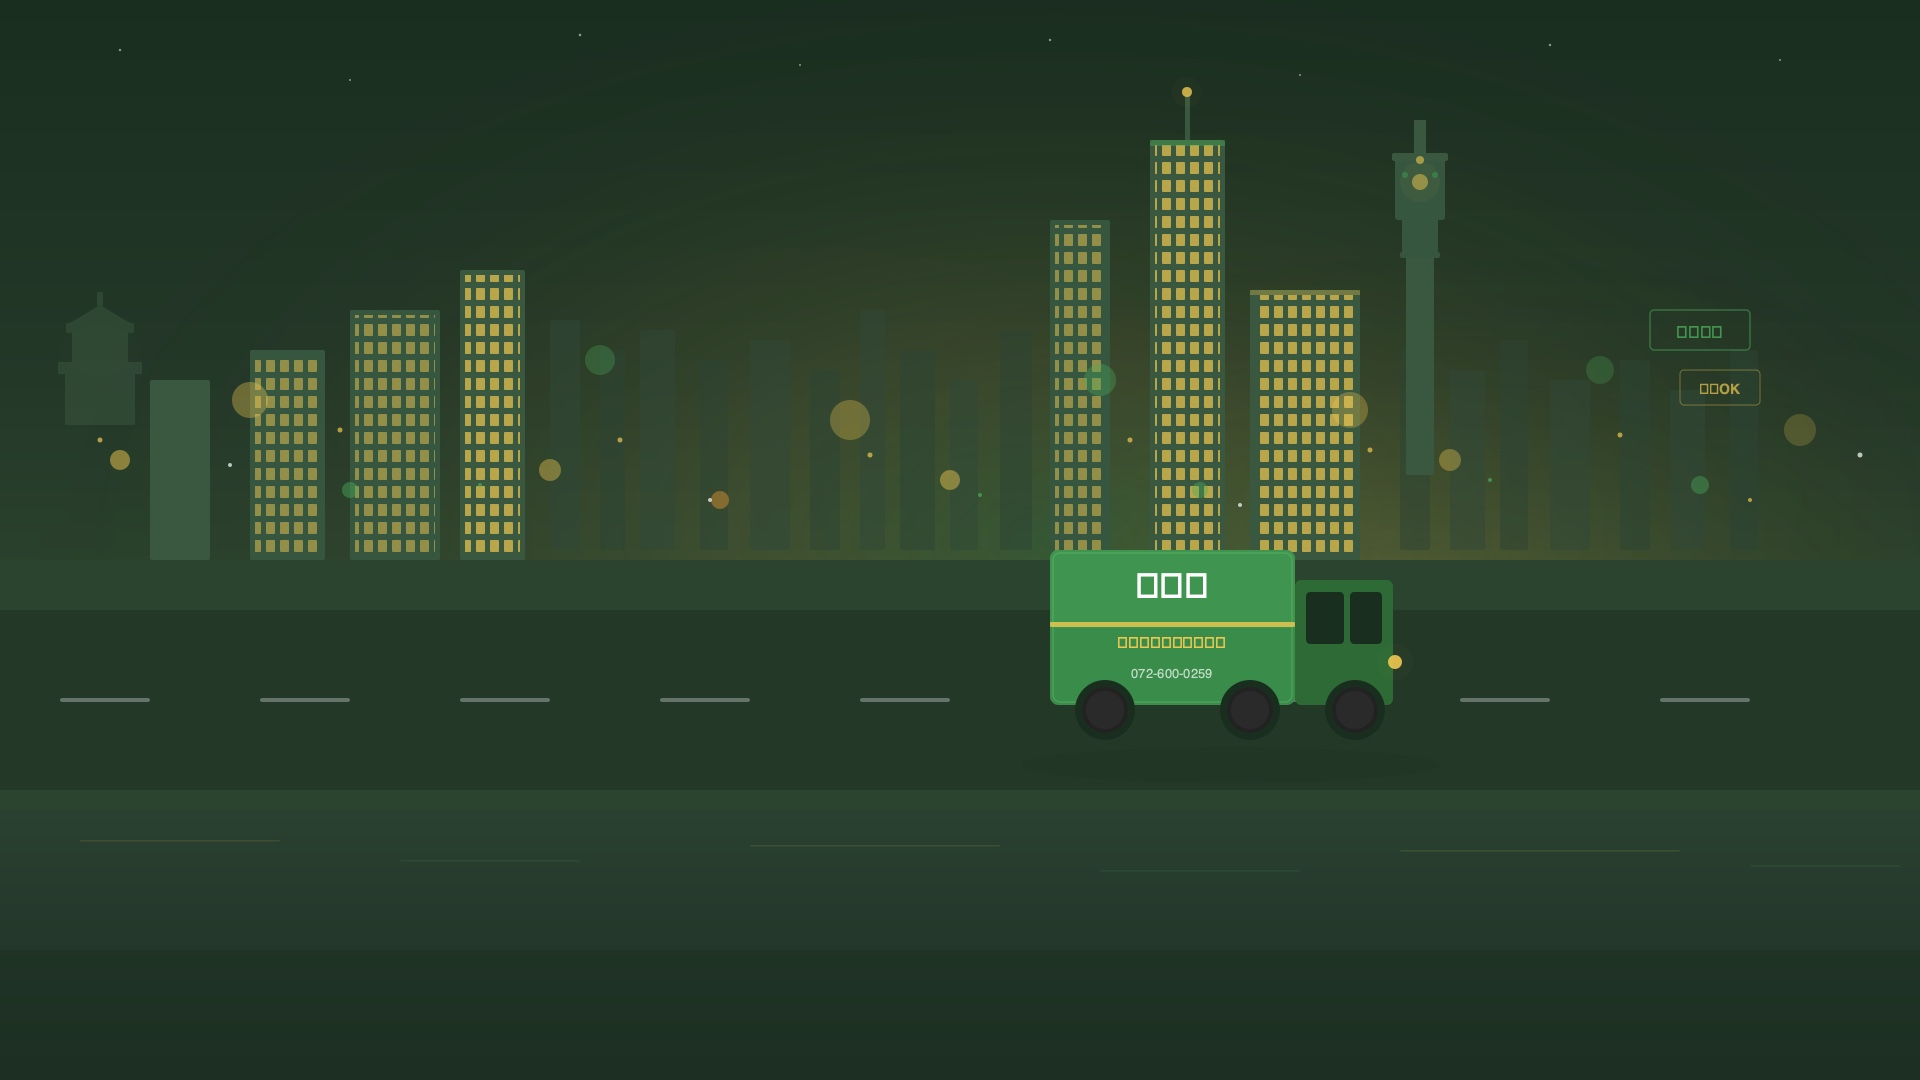
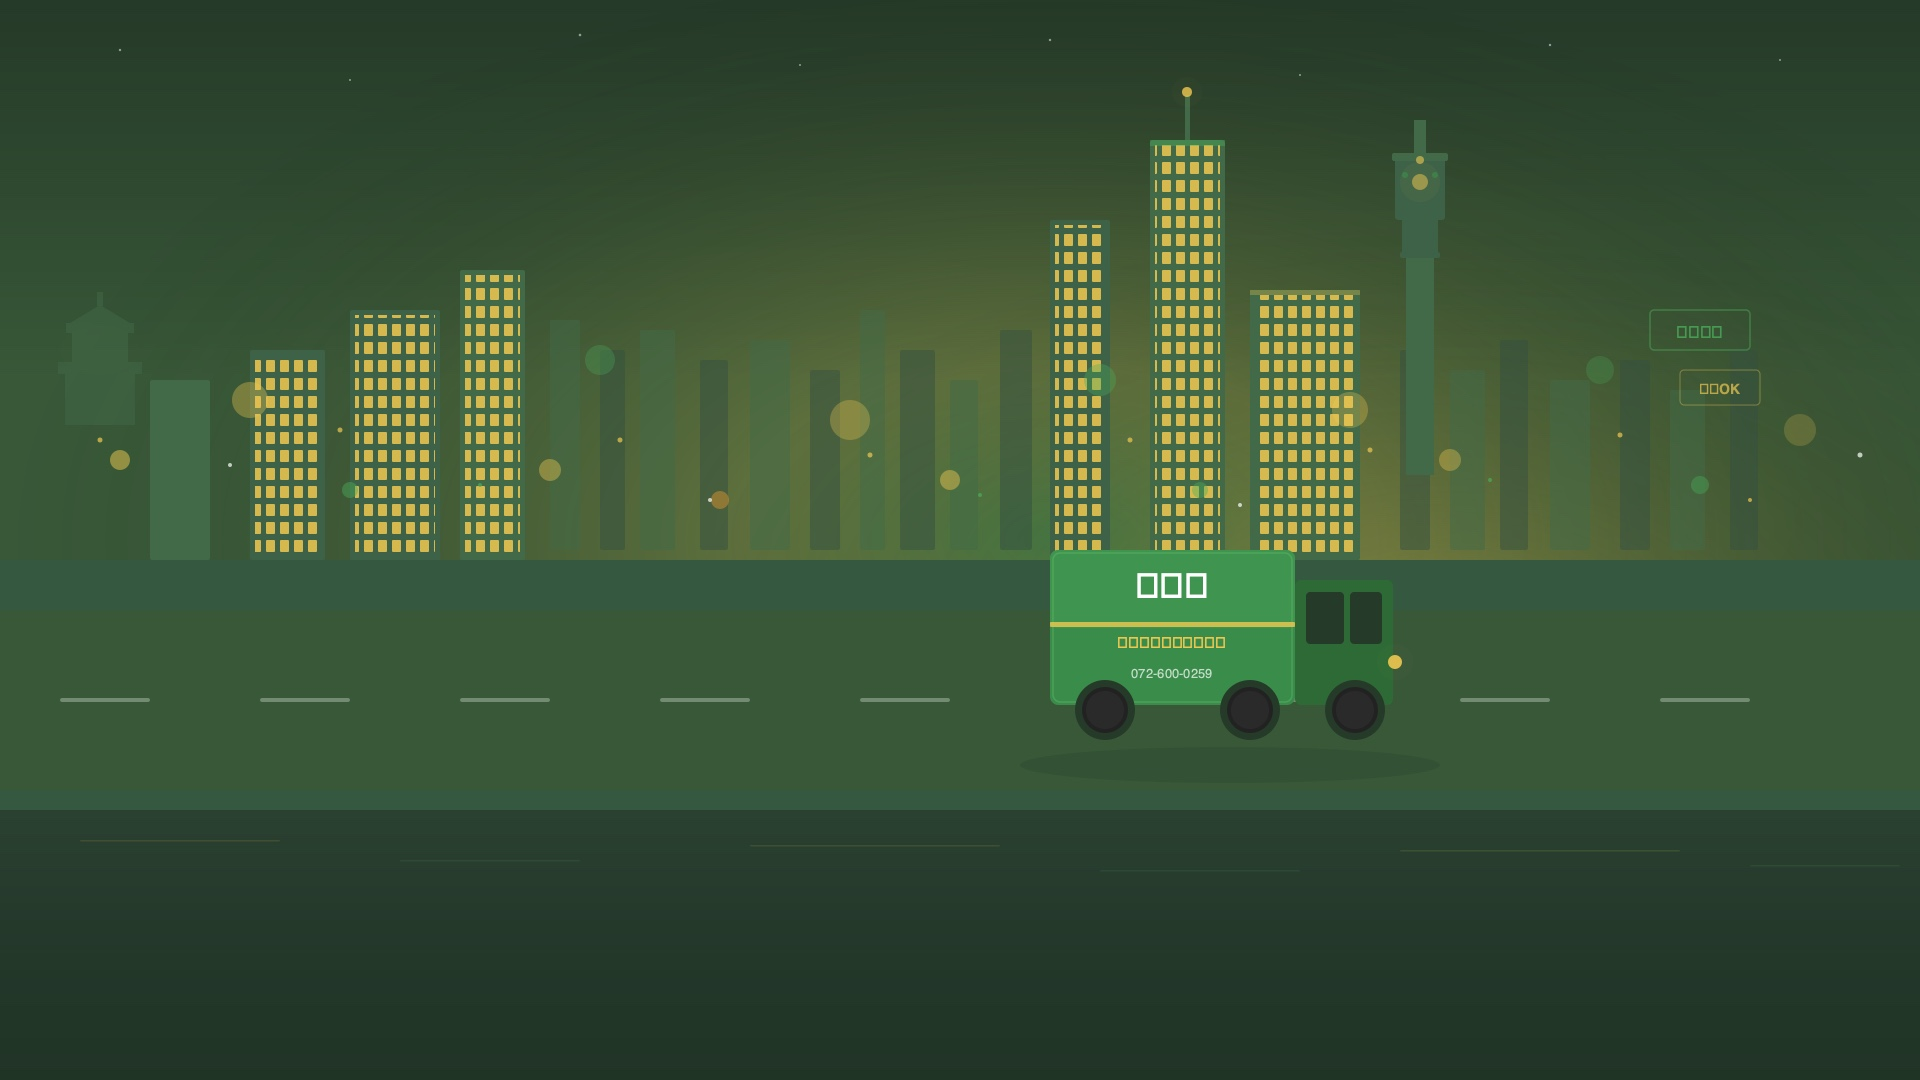
fix: ヒーロー背景をさらに明るく・オーバーレイを大幅軽減
- CSSオーバーレイ: 85%→50%に軽減、背景画像が見える
- SVG: 全体の明度をさらに引き上げ、窓明かりの輝度UP
- ボケ光の彩度・サイズを強化

diff --git a/不用品LP/front-page.php b/不用品LP/front-page.php
@@ -28,7 +28,7 @@
 電話
 </a> <a href="https://lin.ee/nFNy7hh" target="_blank" rel="noopener noreferrer" class="flex items-center justify-center gap-1.5 bg-line hover:brightness-110 text-white font-bold text-[11px] md:text-sm px-3 md:px-5 py-2 md:py-3 rounded-lg md:rounded-xl transition-all shadow-md"> <svg xmlns="http://www.w3.org/2000/svg" class="w-3.5 h-3.5 md:w-5 md:h-5 flex-shrink-0" viewBox="0 0 24 24" fill="currentColor"><path d="M19.365 9.863c.349 0 .63.285.63.631 0 .345-.281.63-.63.63H17.61v1.125h1.755c.349 0 .63.283.63.63 0 .344-.281.629-.63.629h-2.386c-.345 0-.627-.285-.627-.629V8.108c0-.345.282-.63.63-.63h2.386c.346 0 .627.285.627.63 0 .349-.281.63-.63.63H17.61v1.125h1.755zm-3.855 3.016c0 .27-.174.51-.432.596-.064.021-.133.031-.199.031-.211 0-.391-.09-.51-.25l-2.443-3.317v2.94c0 .344-.279.629-.631.629-.346 0-.626-.285-.626-.629V8.108c0-.27.173-.51.43-.595.06-.023.136-.033.194-.033.195 0 .375.104.495.254l2.462 3.33V8.108c0-.345.282-.63.63-.63.345 0 .63.285.63.63v4.771zm-5.741 0c0 .344-.282.629-.631.629-.345 0-.627-.285-.627-.629V8.108c0-.345.282-.63.63-.63.346 0 .628.285.628.63v4.771zm-2.466.629H4.917c-.345 0-.63-.285-.63-.629V8.108c0-.345.285-.63.63-.63.348 0 .63.285.63.63v4.141h1.756c.348 0 .629.283.629.63 0 .344-.282.629-.629.629M24 10.314C24 4.943 18.615.572 12 .572S0 4.943 0 10.314c0 4.811 4.27 8.842 10.035 9.608.391.082.923.258 1.058.59.12.301.079.766.038 1.08l-.164 1.02c-.045.301-.24 1.186 1.049.645 1.291-.539 6.916-4.078 9.436-6.975C23.176 14.393 24 12.458 24 10.314"></path></svg>
 LINE
-</a> </div> </div> </header> <main class="pt-[72px] md:pt-[124px]"> <!-- ═══════════════════════════════════════════════ --> <!--  HERO                                          --> <!-- ═══════════════════════════════════════════════ --> <section class="bg-dark text-white"> <!-- PC: 背景画像+テキストオーバーレイ --> <div class="relative hidden md:block overflow-hidden hero-luxury"> <picture><source srcset="<?php echo esc_url(ecotomi_asset('images/hero-staff.webp')); ?>" type="image/webp"><img src="<?php echo esc_url(ecotomi_asset('images/hero-staff.jpg')); ?>" alt="" class="absolute inset-0 w-full h-full object-cover" fetchpriority="high" loading="eager"></picture> <div class="absolute inset-0 bg-gradient-to-r from-dark via-dark/85 via-60% to-dark/20"></div> <div class="absolute inset-0 bg-gradient-to-t from-dark via-dark/30 to-transparent"></div>  <div class="relative max-w-6xl mx-auto px-5 py-32 w-full" style="z-index:2"> <div class="max-w-xl"> <div class="inline-flex items-center gap-2 badge-luxury rounded-full px-4 py-1.5 text-xs font-bold mb-6 badge-pulse"> <span class="relative flex h-2 w-2"><span class="animate-ping absolute inline-flex h-full w-full rounded-full bg-terra opacity-75"></span><span class="relative inline-flex rounded-full h-2 w-2 bg-terra-light"></span></span>
+</a> </div> </div> </header> <main class="pt-[72px] md:pt-[124px]"> <!-- ═══════════════════════════════════════════════ --> <!--  HERO                                          --> <!-- ═══════════════════════════════════════════════ --> <section class="bg-dark text-white"> <!-- PC: 背景画像+テキストオーバーレイ --> <div class="relative hidden md:block overflow-hidden hero-luxury"> <picture><source srcset="<?php echo esc_url(ecotomi_asset('images/hero-staff.webp')); ?>" type="image/webp"><img src="<?php echo esc_url(ecotomi_asset('images/hero-staff.jpg')); ?>" alt="" class="absolute inset-0 w-full h-full object-cover" fetchpriority="high" loading="eager"></picture> <div class="absolute inset-0 bg-gradient-to-r from-dark/90 via-dark/50 via-55% to-dark/20"></div> <div class="absolute inset-0 bg-gradient-to-t from-dark/60 via-dark/15 to-transparent"></div>  <div class="relative max-w-6xl mx-auto px-5 py-32 w-full" style="z-index:2"> <div class="max-w-xl"> <div class="inline-flex items-center gap-2 badge-luxury rounded-full px-4 py-1.5 text-xs font-bold mb-6 badge-pulse"> <span class="relative flex h-2 w-2"><span class="animate-ping absolute inline-flex h-full w-full rounded-full bg-terra opacity-75"></span><span class="relative inline-flex rounded-full h-2 w-2 bg-terra-light"></span></span>
 相見積もり大歓迎 ― 他社の見積もりお持ちください
 </div> <h1 class="hidden md:block text-5xl lg:text-6xl font-black leading-[1.1] mb-5 tracking-tight" style="text-shadow: 0 2px 20px rgba(0,0,0,0.7), 0 0 60px rgba(58,140,74,0.2);">
 大阪の不用品回収・<br>出張買取なら<br> <span class="text-gold-shimmer" style="font-size:1.15em">エコ富</span> </h1> <p class="text-white/80 text-base mb-6 max-w-md leading-relaxed" style="text-shadow: 0 1px 6px rgba(0,0,0,0.4);">
